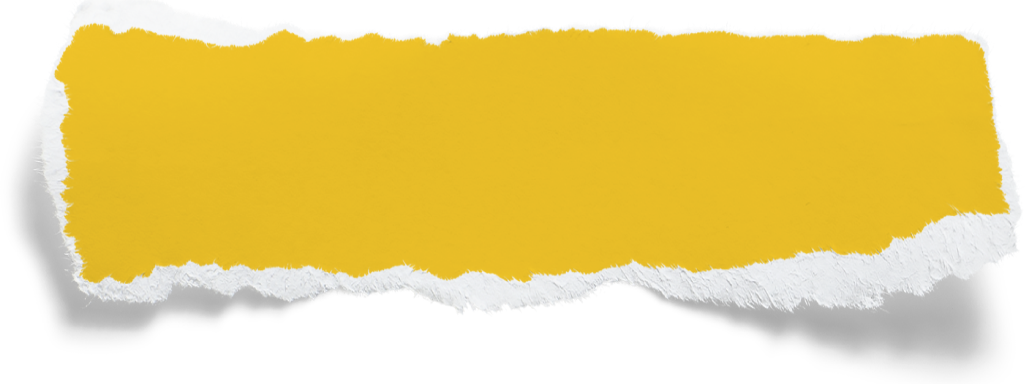
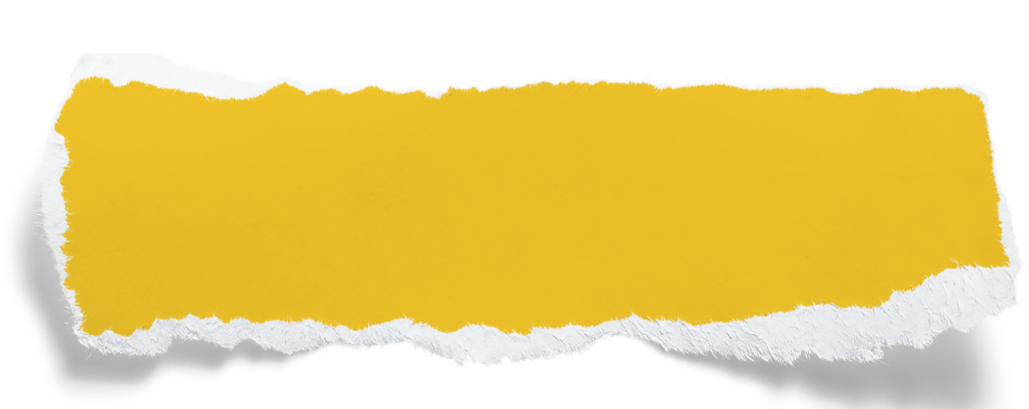
feat: aboutme section finish only mobile version

Changed region(s): [[0.0, 0.0625, 0.9951, 1.0]]

diff --git a/src/style/base/_typography.scss b/src/style/base/_typography.scss
@@ -94,6 +94,50 @@
   font-display: swap;
 }
 
+h1 {
+  font-family: "Bricolage Grotesque", Arial, Helvetica, sans-serif;
+  font-size: 50px;
+  font-weight: 700;
+  line-height: 100%;
+
+  @include respond(md) {
+    font-size: 69px;
+  }
+  @include respond(lg) {
+    font-size: 96px;
+  }
+  @include respond(xl) {
+    font-size: 124px;
+  }
+}
+
+h2 {
+  font-family: Bricolage Grotesque;
+  font-weight: 700;
+  font-style: Bold;
+  font-size: 48px;
+  line-height: 100%;
+  letter-spacing: 0%;
+}
+
+p {
+  font-family: Bricolage Grotesque;
+  font-weight: 400;
+  font-style: Regular;
+  font-size: 18px;
+  line-height: 100%;
+  letter-spacing: 0%;
+}
+.overline {
+  font-family: Bricolage Grotesque;
+  font-weight: 500;
+  font-style: Medium;
+  font-size: 18px;
+  line-height: 100%;
+  letter-spacing: 0%;
+  text-transform: uppercase;
+}
+
 .btn-pill {
   font-family: "Bricolage Grotesque", Arial, Helvetica, sans-serif;
   font-weight: 500;
@@ -112,29 +156,12 @@
   letter-spacing: 0%;
 }
 
-p {
+.snipet-text {
   font-family: Bricolage Grotesque;
-  font-weight: 700;
-  font-style: Bold;
-  font-size: 18px;
+  font-weight: 400;
+  font-style: Regular;
+  font-size: 20px;
   line-height: 120%;
   letter-spacing: 0%;
   text-align: justify;
-}
-
-h1 {
-  font-family: "Bricolage Grotesque", Arial, Helvetica, sans-serif;
-  font-size: 50px;
-  font-weight: 700;
-  line-height: 100%;
-
-  @include respond(md) {
-    font-size: 69px;
-  }
-  @include respond(lg) {
-    font-size: 96px;
-  }
-  @include respond(xl) {
-    font-size: 124px;
-  }
 }

diff --git a/src/app/shared/components/about-me/about-me.ts b/src/app/shared/components/about-me/about-me.ts
@@ -1,9 +1,41 @@
 import { Component } from '@angular/core';
+import { Snipet } from '../snipet/snipet';
+import { TranslatePipe } from '@ngx-translate/core';
 
 @Component({
   selector: 'app-about-me',
-  imports: [],
+  imports: [Snipet, TranslatePipe],
   templateUrl: './about-me.html',
   styleUrl: './about-me.scss',
 })
-export class AboutMe {}
+export class AboutMe {
+  snipets = [
+    {
+      icon: '/icons/Location.png',
+      text: 'aboutme.snipets.text.location',
+      backgroundImages: {
+        mobile: '/images/02_Ripped-Paper/Option-1/Mobile/About-me-1.png',
+        desktop: '/images/02_Ripped-Paper/Option-1/1-Yellow.png',
+        alt: 'aboutme.snipets.background.opt1.mobile.yellow.name',
+      },
+    },
+    {
+      icon: '/icons/Relocation.png',
+      text: 'aboutme.snipets.text.relocation',
+      backgroundImages: {
+        mobile: '/images/02_Ripped-Paper/Option-1/Mobile/About-me-2.png',
+        desktop: '/images/02_Ripped-Paper/Option-1/2-bkue.png',
+        alt: 'aboutme.snipets.background.opt1.mobile.blue.name',
+      },
+    },
+    {
+      icon: '/icons/Remote.png',
+      text: 'aboutme.snipets.text.remote',
+      backgroundImages: {
+        mobile: '/images/02_Ripped-Paper/Option-1/Mobile/About-me-3.png',
+        desktop: '/images/02_Ripped-Paper/Option-1/3-Orange.png',
+        alt: 'aboutme.snipets.background.opt1.mobile.orange.name',
+      },
+    },
+  ];
+}

diff --git a/src/app/shared/components/about-me/about-me.scss b/src/app/shared/components/about-me/about-me.scss
@@ -1,0 +1,55 @@
+@use "../../../../style/abstracts/" as *;
+.about-me {
+    color: $main-dark;
+    padding: 88px $padding-16;
+
+    @include flex($flex-direction: column);
+    gap: 40px;
+    &__title {
+        padding-bottom: calc($padding-16 * 2);
+    }
+    &__overline {
+    }
+    &__headline {
+    }
+    &__headline-text {
+        margin-top: $padding-16;
+    }
+    &__headline-animation {
+        width: 60%;
+        clip-path: inset(0 100% 0 0);
+        animation: slide-in-out linear 5s infinite;
+    }
+    &__content {
+    }
+    &__cta {
+        border: 1px solid $main-dark;
+        float: right;
+        margin-top: calc($padding-16 * 2);
+        cursor: pointer;
+
+        &:hover {
+            background-color: $main-hl3;
+        }
+    }
+    &__snipets {
+        li {
+            position: relative;
+            &:nth-child(1) {
+                transform: rotate(-4deg);
+                z-index: 3;
+            }
+            &:nth-child(2) {
+                margin-top: -65px;
+                z-index: 2;
+            }
+            &:nth-child(3) {
+                margin-top: -70px;
+                transform: rotate(4deg);
+                z-index: 1;
+            }
+        }
+    }
+    &__text {
+    }
+}

diff --git a/src/app/shared/components/about-me/about-me.html b/src/app/shared/components/about-me/about-me.html
@@ -1,1 +1,31 @@
-<p>about-me works!</p>
+<section class="about-me">
+  <div class="about-me__content">
+    <div class="about-me__title">
+      <span class="about-me__overline overline">{{ 'aboutme.overline' | translate }}</span>
+      <div class="about-me__headline">
+        <h2 class="about-me__headline-text">{{ 'aboutme.headline' | translate }}</h2>
+        <img
+          class="about-me__headline-animation"
+          src="{{ 'aboutme.underlineImg.opt1.src' | translate }}"
+          alt="{{ 'aboutme.underlineImg.opt1.name' | translate }}"
+        />
+      </div>
+    </div>
+
+    <p class="about-me__text">
+      {{ 'aboutme.content' | translate }}
+    </p>
+    <button class="about-me__cta btn-pill">{{ 'aboutme.btnText' | translate }}</button>
+  </div>
+  <ul class="about-me__snipets">
+    @for (snipet of snipets; track $index) {
+      <li>
+        <app-snipet
+          [icon]="snipet.icon"
+          [text]="snipet.text"
+          [background]="snipet.backgroundImages"
+        ></app-snipet>
+      </li>
+    }
+  </ul>
+</section>

diff --git a/src/app/shared/components/snipet/snipet.scss b/src/app/shared/components/snipet/snipet.scss
@@ -1,0 +1,44 @@
+@use "../../../../style/abstracts/" as *;
+
+.snipet {
+  position: relative;
+
+  &__figure {
+    position: relative;
+    display: inline-block;
+  }
+
+  &__image {
+    width: 100%;
+    display: block;
+  }
+
+  &__text {
+    font-family: Bricolage Grotesque;
+    font-weight: 400;
+    font-size: 20px;
+    line-height: 120%;
+    letter-spacing: 0%;
+    text-align: justify;
+    color: $main-base;
+
+    background-repeat: no-repeat;
+    position: absolute;
+    top: 50%;
+    left: 50%;
+    transform: translate(-50%, -50%);
+    text-wrap: nowrap;
+
+    @include flex($align-items: center, $flex-wrap: nowrap);
+    gap: 12px;
+
+    pointer-events: none;
+
+    &::before {
+      content: "";
+      width: 40px;
+      height: 40px;
+      display: block;
+    }
+  }
+}

diff --git a/src/app/shared/components/snipet/snipet.ts b/src/app/shared/components/snipet/snipet.ts
@@ -1,0 +1,20 @@
+import { Component, input } from '@angular/core';
+import { TranslatePipe, TranslateDirective } from '@ngx-translate/core';
+
+interface Background {
+  mobile: string;
+  desktop: string;
+  alt: string;
+}
+
+@Component({
+  selector: 'app-snipet',
+  imports: [TranslatePipe, TranslateDirective],
+  templateUrl: './snipet.html',
+  styleUrl: './snipet.scss',
+})
+export class Snipet {
+  text = input.required<string>();
+  icon = input.required();
+  background = input.required<Background>();
+}

diff --git a/src/app/shared/components/snipet/snipet.html b/src/app/shared/components/snipet/snipet.html
@@ -1,0 +1,12 @@
+<div class="snipet">
+  <figure class="snipet__figure">
+    <img
+      src="{{ background().mobile }}"
+      alt="{{ background().alt | translate }}"
+      class="snipet__image"
+    />
+    <figcaption [style.background-image]="'url(' + icon() + ')'" class="snipet__text">
+      {{ text() | translate }}
+    </figcaption>
+  </figure>
+</div>

diff --git a/src/style/abstracts/_variables.scss b/src/style/abstracts/_variables.scss
@@ -28,7 +28,7 @@ $opt3-h3: #1f6ed4;
 
 //in Use Color
 $main-base: $opt1-base;
-$main-dark: $opt1-dark;
+$main-dark: $opt2-dark;
 
 $main-hl1: $opt1-h1;
 $main-hl2: $opt1-h2;
